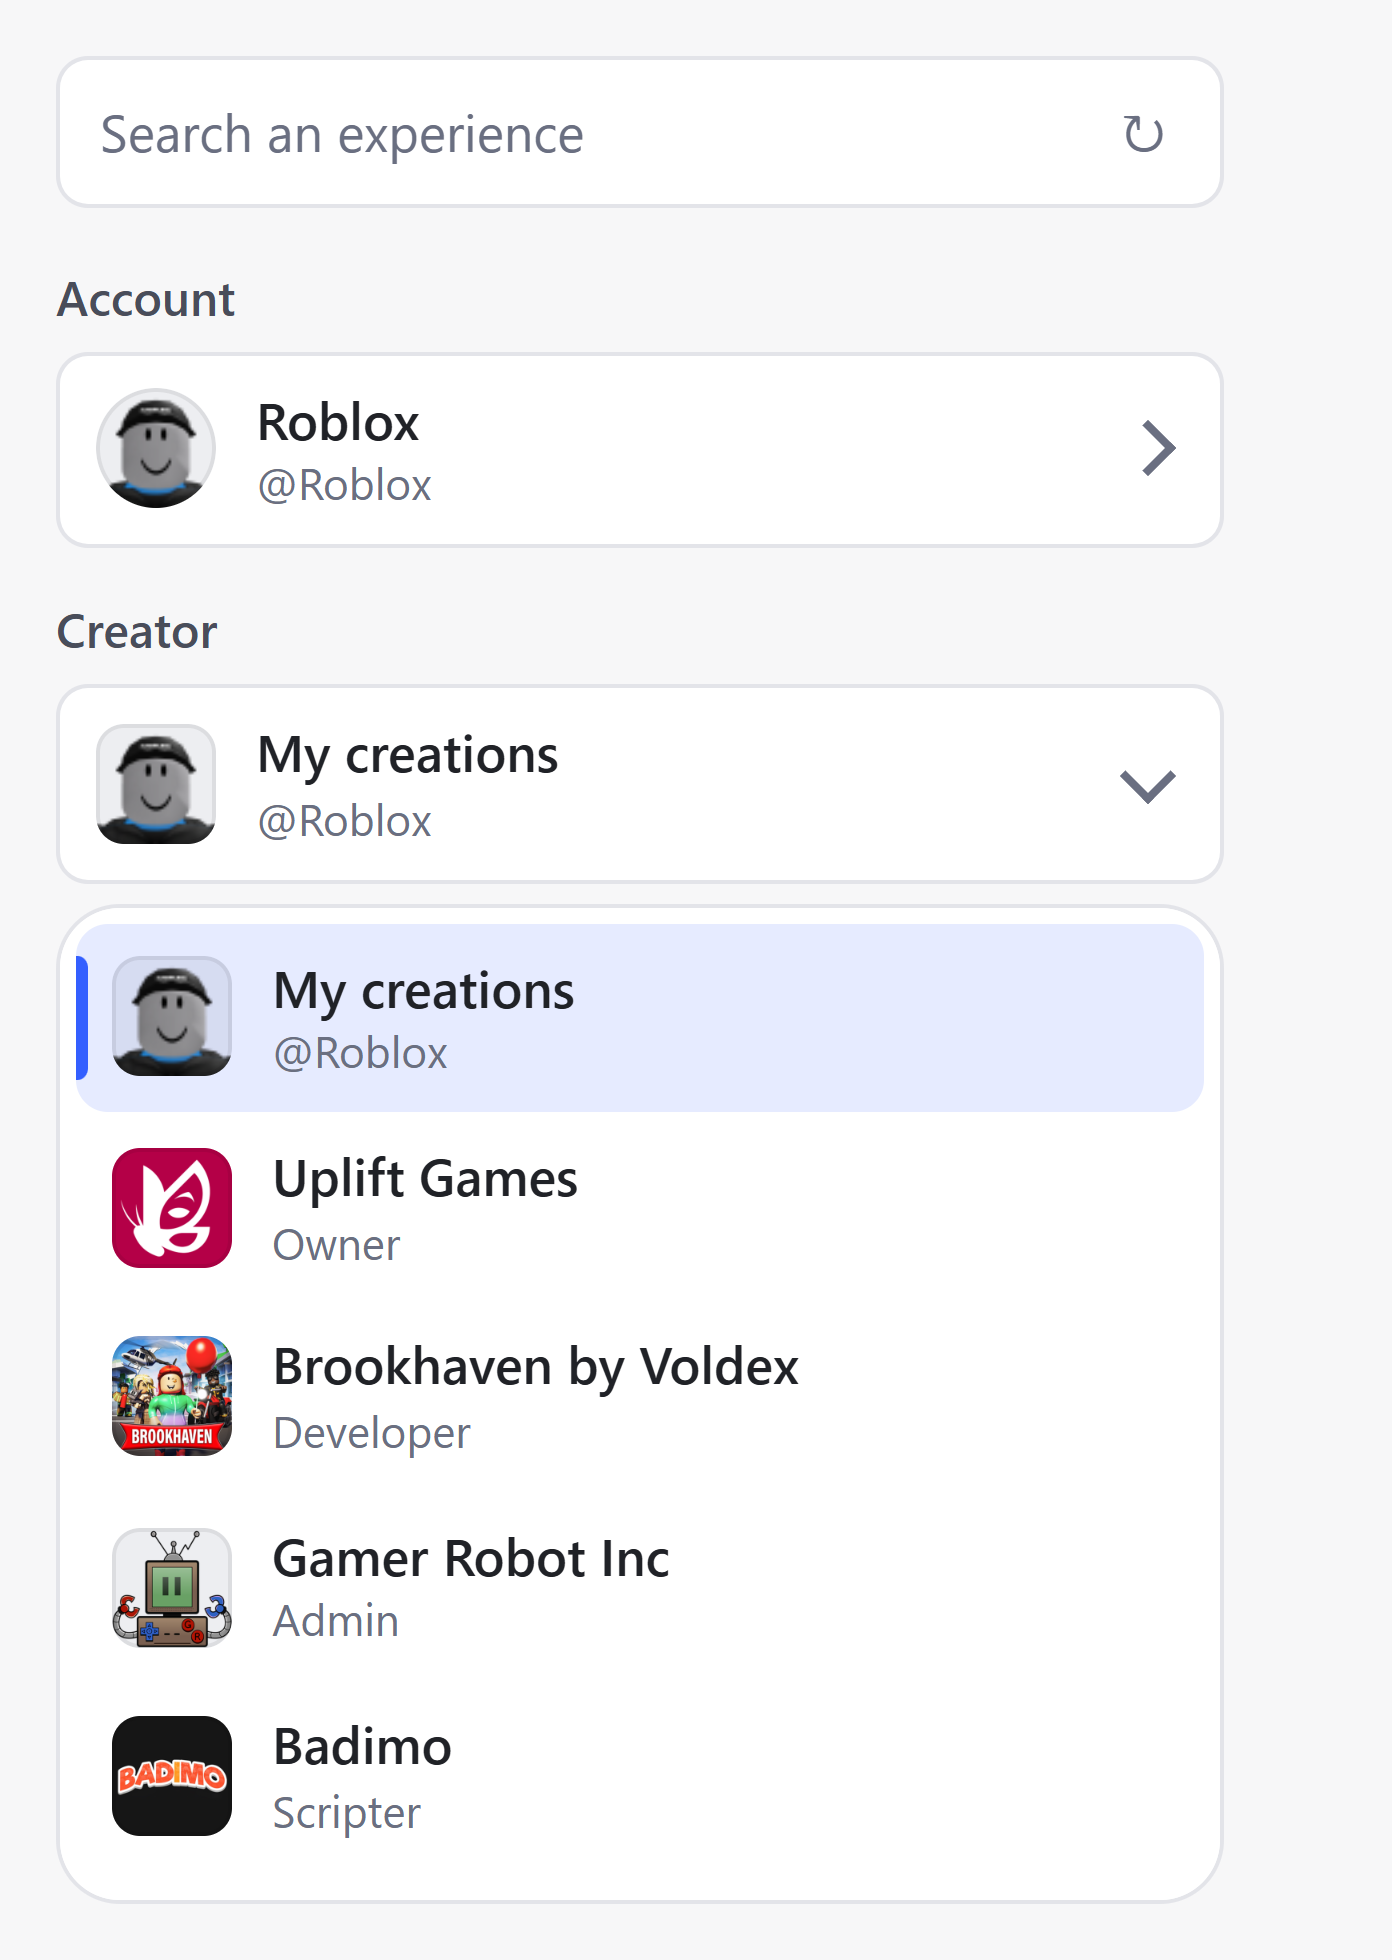
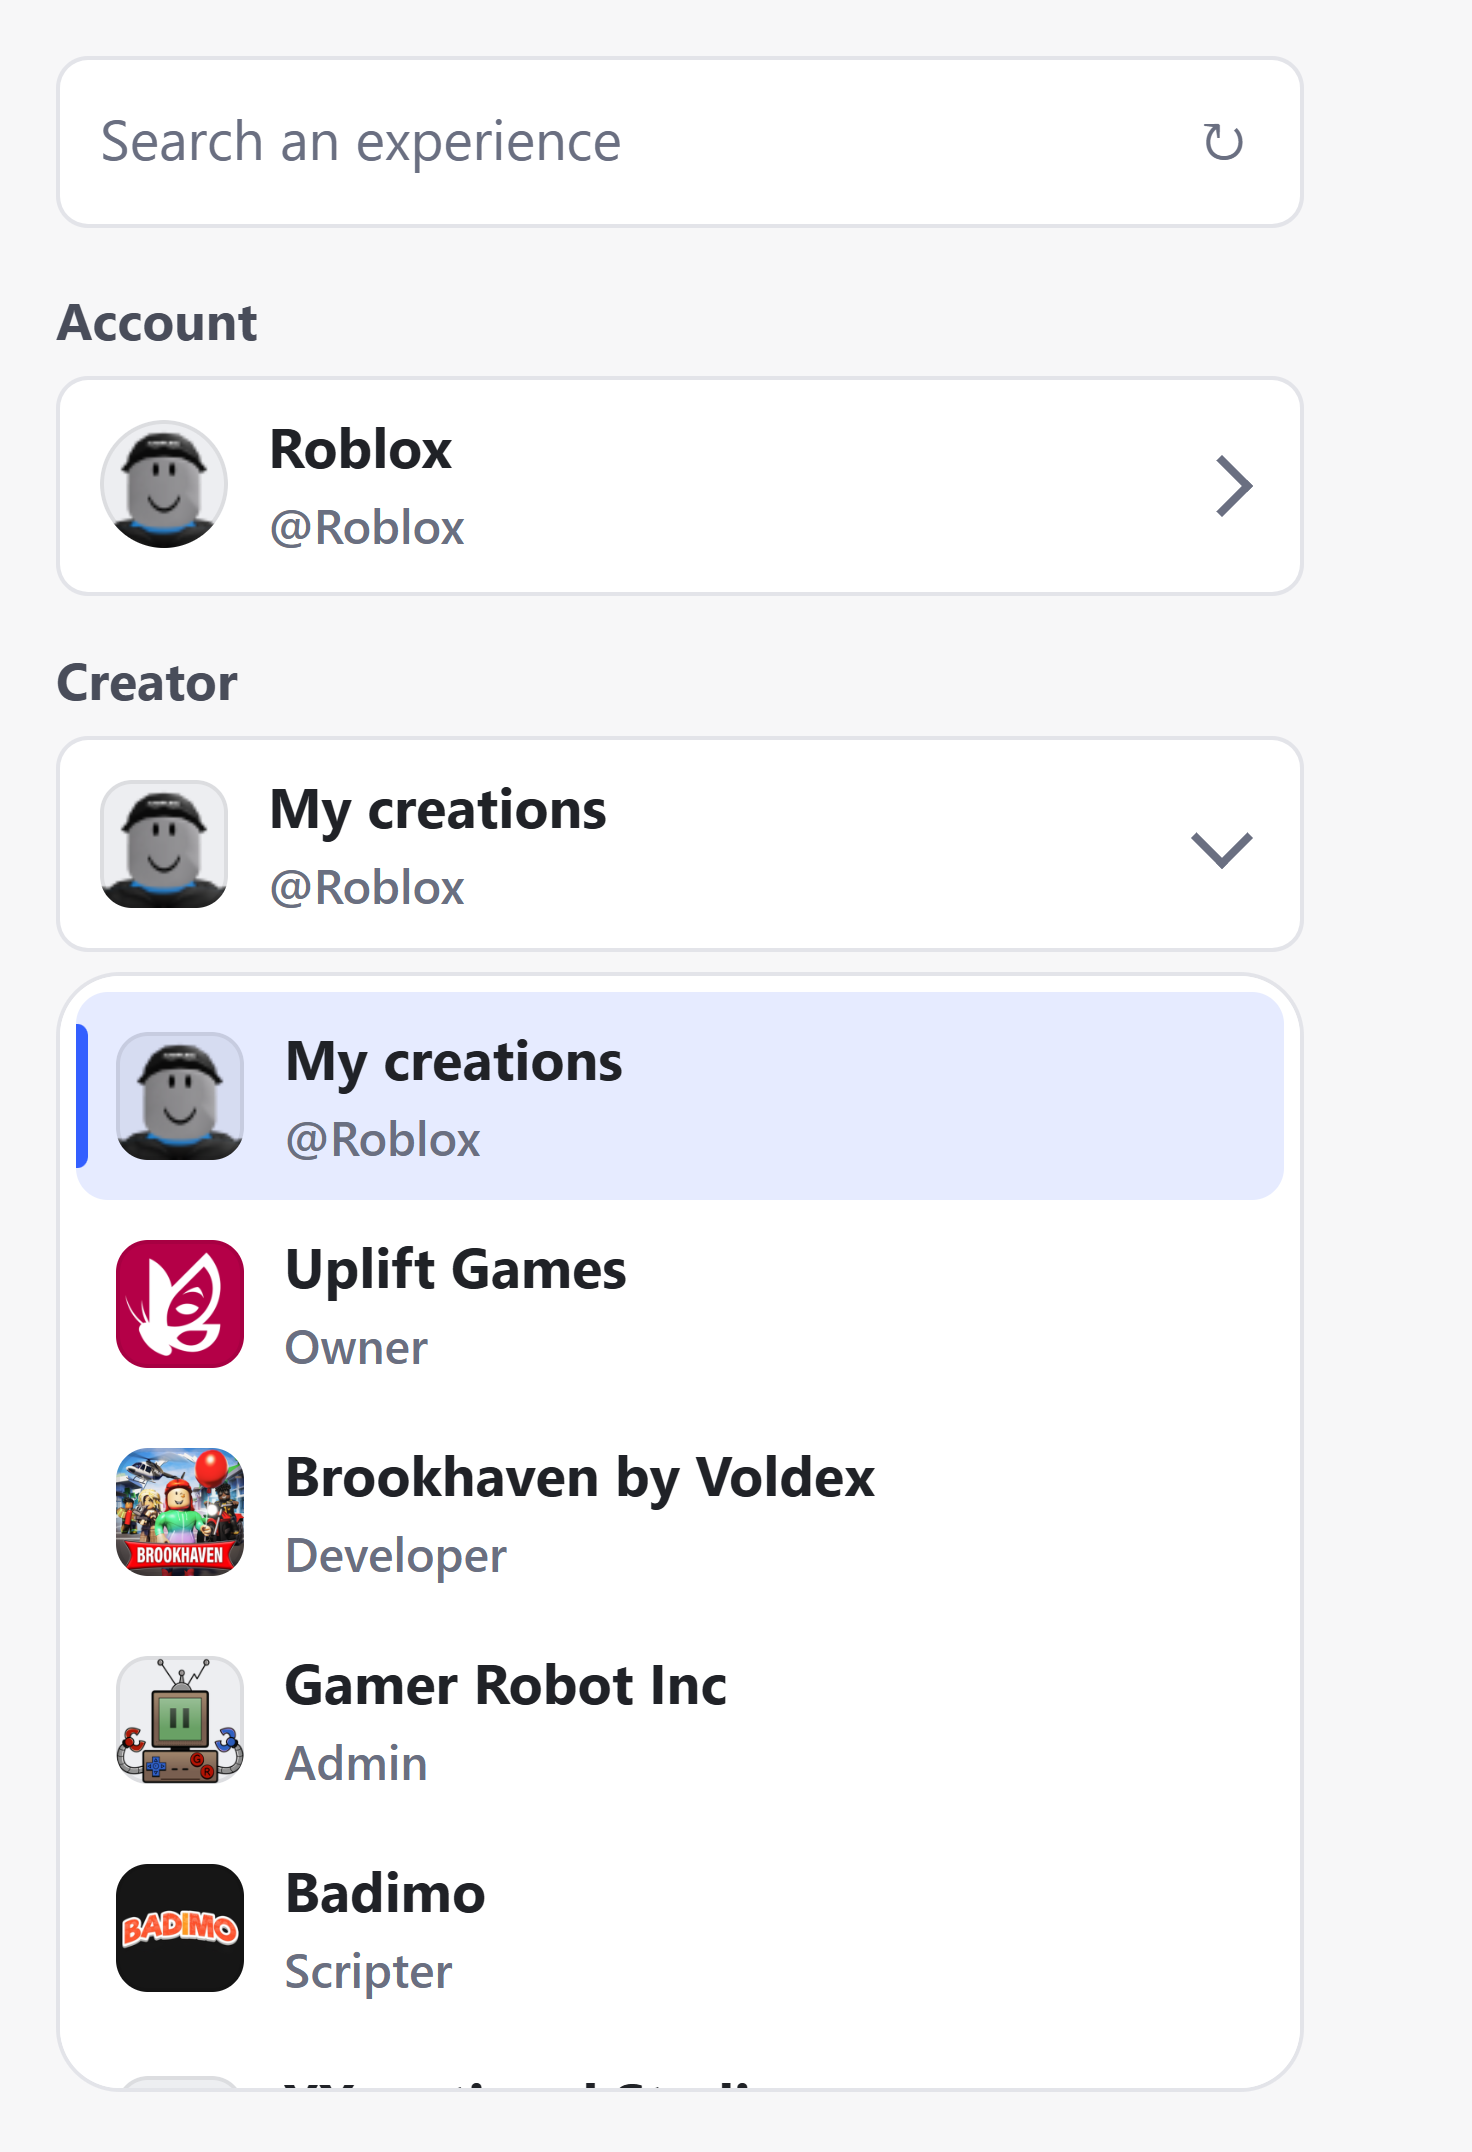
style: the Hub's type scale, and three pickers of one height
The popup was a point smaller than the Creator Hub across the board and
read as faint over it, the more so in Segoe UI, lighter than Builder Sans
at the same weight. Now 14px body, names at 700, detail at 12px, labels at
13px, 32px art, and the popup is 340px wide so names truncate no sooner.

The account and creator rows have a second line and the experience row
does not, which left the third picker shorter than the two above it. All
three share a minimum height sized to the two-line case. The search field
and the main button grow to match, and the floating lists show one more
row before scrolling.

diff --git a/src/popup/popup.css b/src/popup/popup.css
@@ -68,7 +68,7 @@
 }
 
 body {
-  width: 320px;
+  width: 340px;
   margin: 0;
   padding: 14px;
   background: var(--bg);
@@ -88,7 +88,11 @@ body {
     Roboto,
     'Helvetica Neue',
     sans-serif;
-  font-size: 13px;
+  /* The Hub's own scale: 14px body, bold names, 12px detail. The popup was
+     a point smaller across the board and read as faint next to the page it
+     sits over, the more so in Segoe UI, which is lighter than Builder Sans
+     at the same weight. */
+  font-size: 14px;
   line-height: 1.35;
   -webkit-font-smoothing: antialiased;
 }
@@ -106,8 +110,8 @@ body {
 .label {
   margin-bottom: 6px;
   color: var(--fg-label);
-  font-size: 12px;
-  font-weight: 600;
+  font-size: 13px;
+  font-weight: 700;
 }
 
 .current,
@@ -116,7 +120,7 @@ body {
   align-items: center;
   gap: 10px;
   width: 100%;
-  padding: 7px 9px;
+  padding: 8px 10px;
   box-sizing: border-box;
   border-radius: var(--radius);
   font: inherit;
@@ -125,6 +129,10 @@ body {
 }
 
 .current {
+  /* The same height whether the row has a second line or not, so the three
+     pickers line up: a one-line experience under a two-line creator looked
+     like a different kind of control. Sized to the two-line case. */
+  min-height: 54px;
   border: 1px solid var(--line);
   background: var(--raised);
   cursor: pointer;
@@ -153,9 +161,9 @@ body {
    A row that reflows when its picture lands is worse than one without. */
 .avatar {
   flex: none;
-  width: 30px;
-  height: 30px;
-  border-radius: 7px;
+  width: 32px;
+  height: 32px;
+  border-radius: 8px;
   background: var(--hover) center / cover no-repeat;
   box-shadow: inset 0 0 0 1px light-dark(rgb(0 0 0 / 0.07), rgb(255 255 255 / 0.08));
 }
@@ -169,7 +177,7 @@ body {
   overflow: hidden;
   text-overflow: ellipsis;
   white-space: nowrap;
-  font-weight: 600;
+  font-weight: 700;
 }
 
 /* The Hub's pill: a tinted capsule, 600 weight, a lock when it matters. */
@@ -178,12 +186,12 @@ body {
   display: inline-flex;
   align-items: center;
   gap: 4px;
-  height: 20px;
-  padding: 0 8px;
+  height: 22px;
+  padding: 0 9px;
   border-radius: 999px;
   background: var(--hover);
   color: var(--fg-label);
-  font-size: 11px;
+  font-size: 12px;
   font-weight: 600;
   line-height: 1;
   white-space: nowrap;
@@ -201,8 +209,8 @@ body {
   overflow: hidden;
   text-overflow: ellipsis;
   color: var(--fg-muted);
-  font-size: 11px;
-  font-weight: 400;
+  font-size: 12px;
+  font-weight: 500;
 }
 
 /* Drawn rather than typed: a glyph's size and weight depend on the font the
@@ -210,8 +218,8 @@ body {
    tree; open it turns to point down at the list it revealed. */
 .chevron {
   flex: none;
-  width: 8px;
-  height: 8px;
+  width: 9px;
+  height: 9px;
   margin-right: 4px;
   border-right: 2px solid var(--fg-muted);
   border-bottom: 2px solid var(--fg-muted);
@@ -234,7 +242,7 @@ body {
   top: 100%;
   left: 0;
   right: 0;
-  max-height: 240px;
+  max-height: 270px;
   margin: 5px 0 0;
   padding: 4px;
   overflow-y: auto;
@@ -292,7 +300,7 @@ body {
 #open {
   width: 100%;
   margin-top: 2px;
-  padding: 9px;
+  padding: 12px;
   border: 1px solid transparent;
   border-radius: var(--radius);
   background: var(--accent);
@@ -330,7 +338,8 @@ body {
   overflow: hidden;
   text-overflow: ellipsis;
   color: var(--fg-muted);
-  font-size: 11.5px;
+  font-size: 12px;
+  font-weight: 500;
 }
 #status.error {
   color: var(--danger);
@@ -377,8 +386,8 @@ body {
   background: transparent;
   color: var(--fg-muted);
   font: inherit;
-  font-size: 10.5px;
-  font-weight: 500;
+  font-size: 12px;
+  font-weight: 600;
   cursor: pointer;
   transition: color 160ms ease;
 }
@@ -424,7 +433,7 @@ body {
 .field input {
   flex: 1;
   min-width: 0;
-  padding: 9px 0;
+  padding: 11px 0;
   border: 0;
   background: none;
   color: inherit;
@@ -498,12 +507,12 @@ body {
   flex: none;
   display: inline-flex;
   align-items: center;
-  height: 20px;
-  padding: 0 8px;
+  height: 22px;
+  padding: 0 9px;
   border-radius: 999px;
   background: var(--accent-soft);
   color: light-dark(#1f47d6, #8fb4ff);
-  font-size: 11px;
+  font-size: 12px;
   font-weight: 600;
   line-height: 1;
 }
